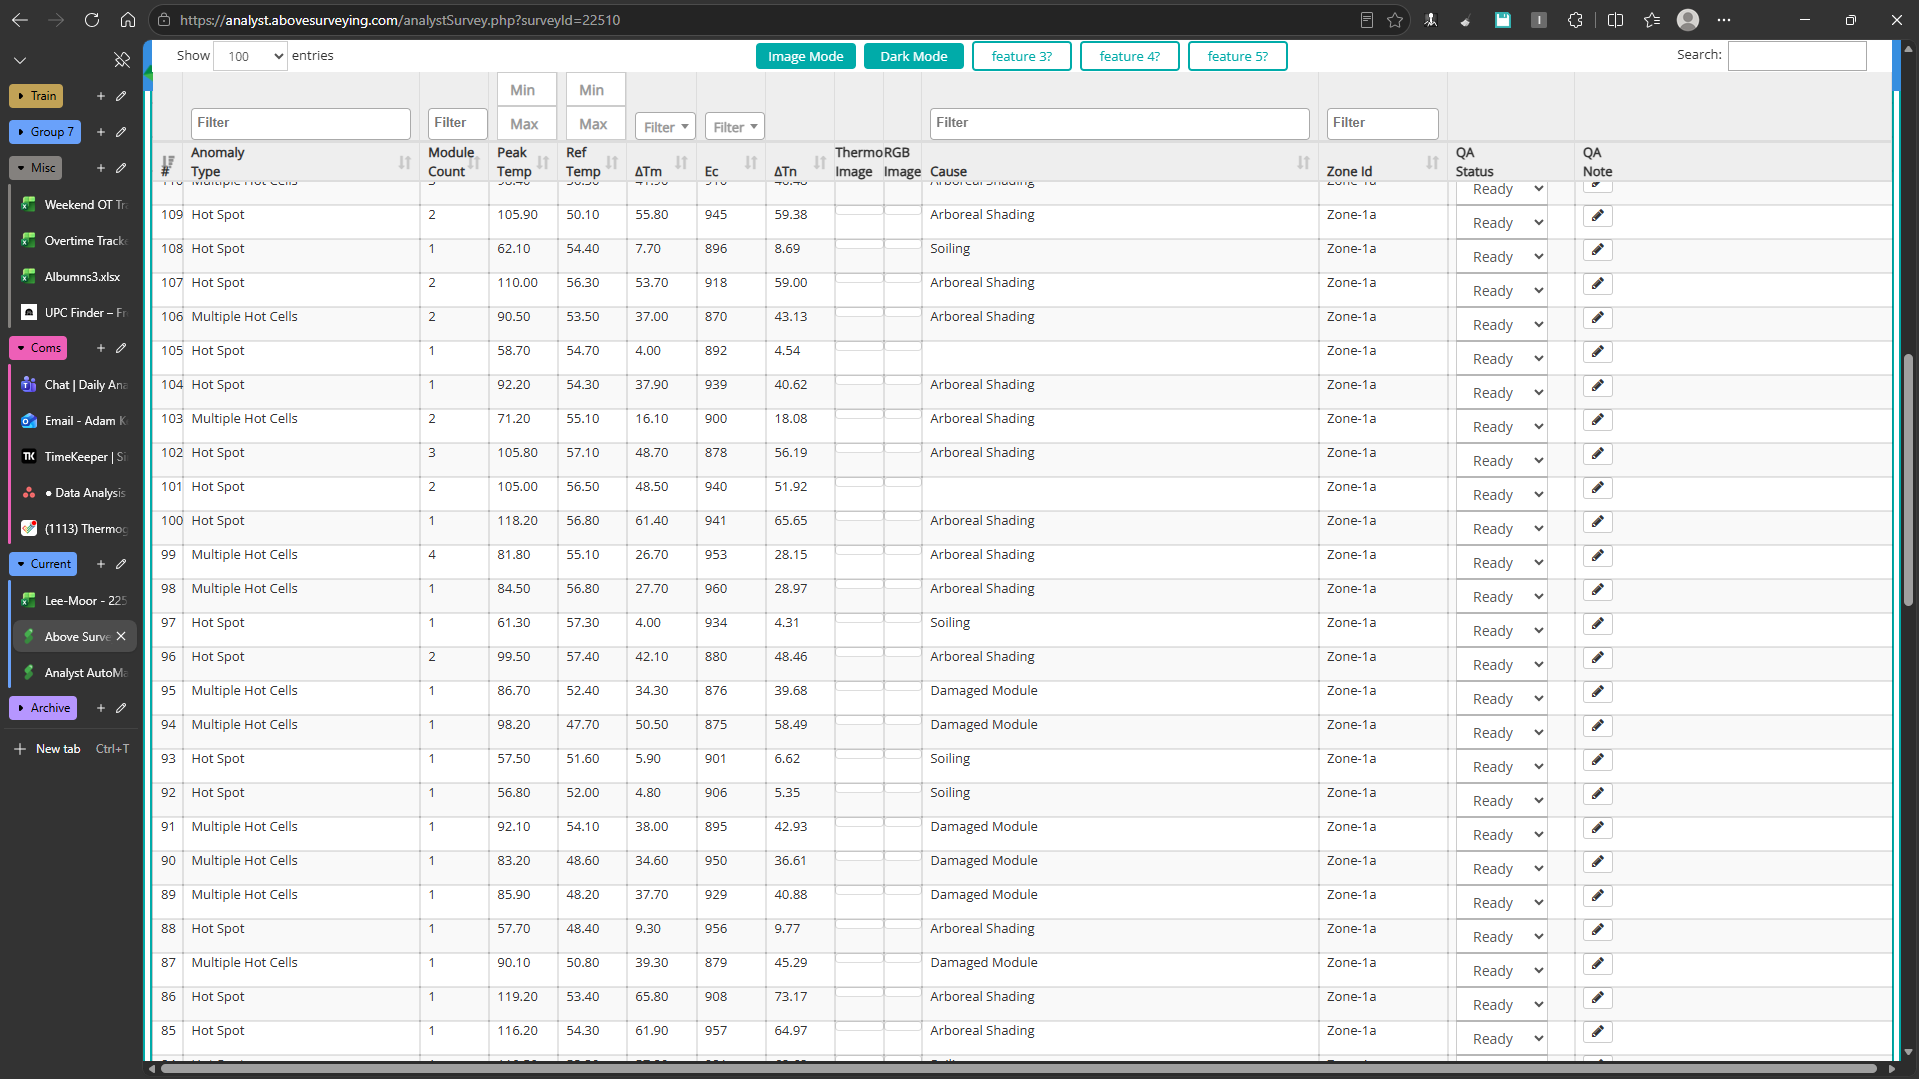
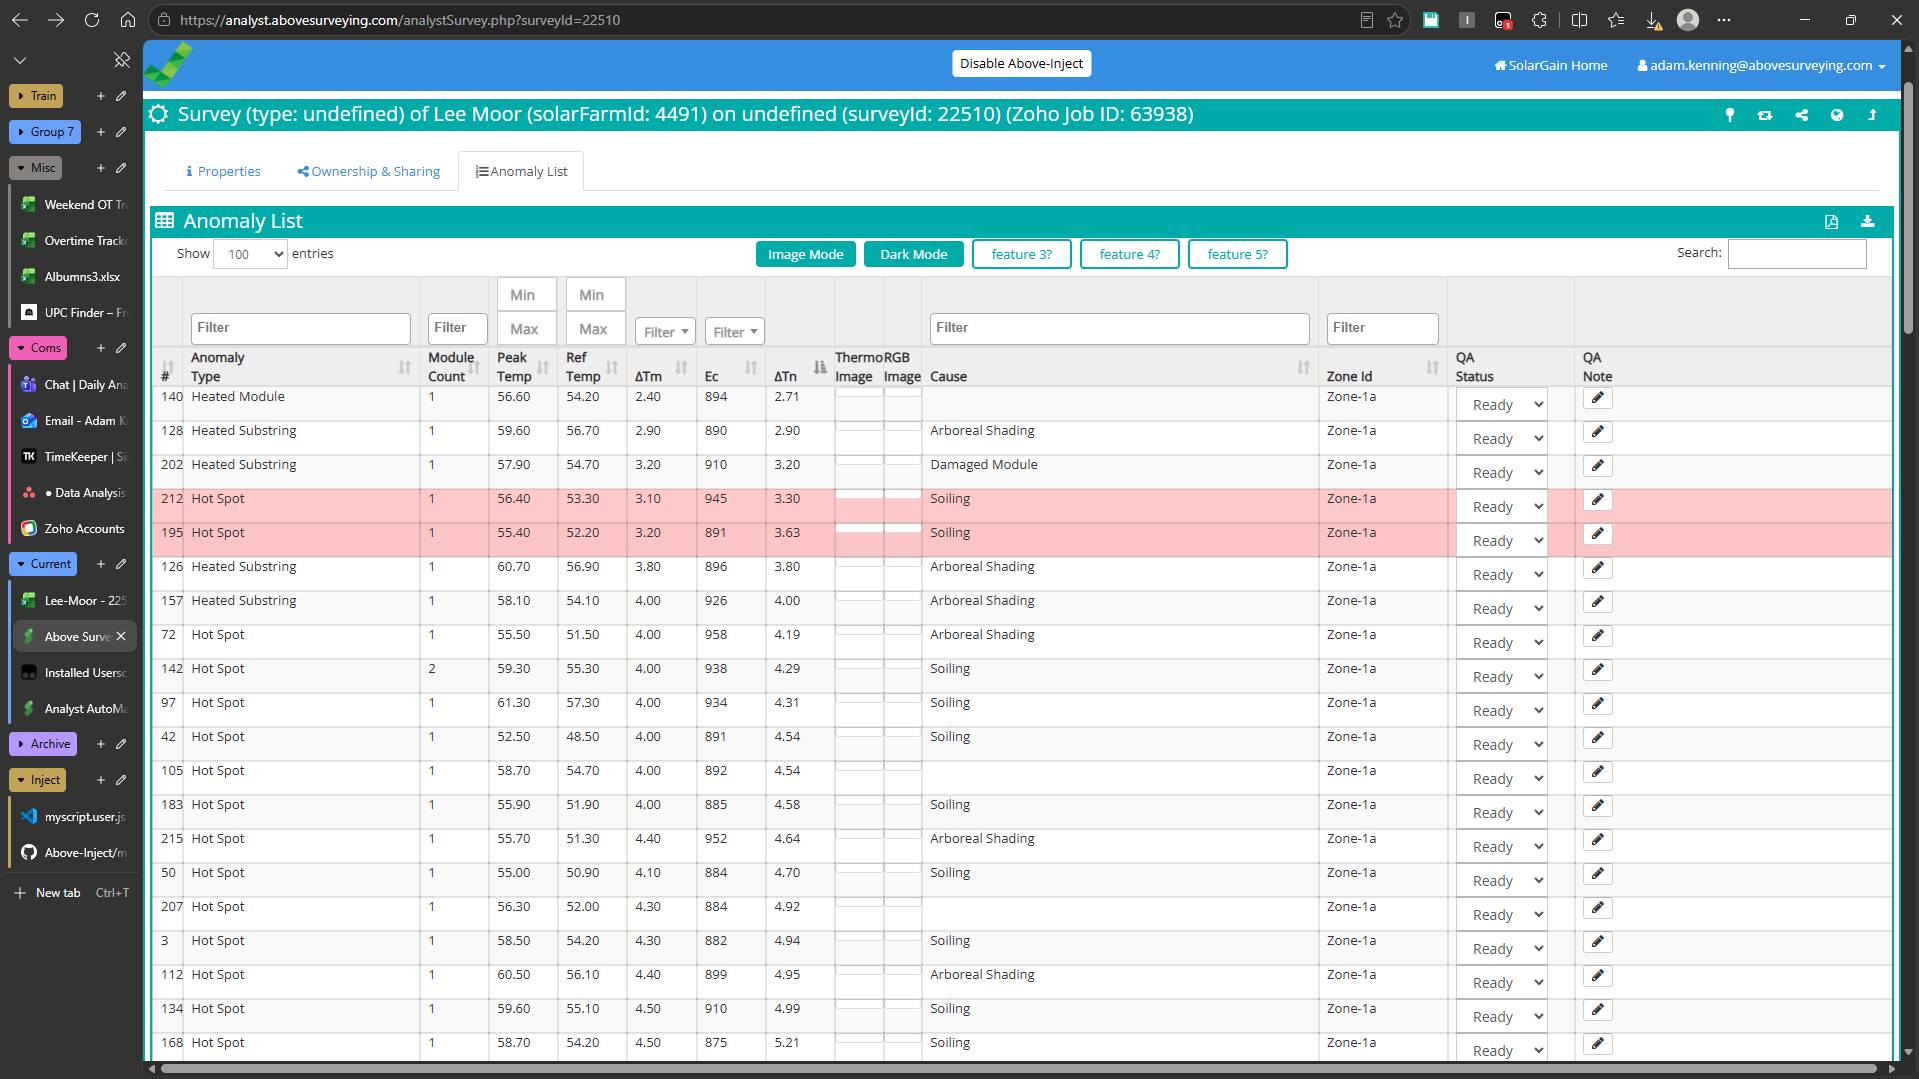
disable button pos fix. readme img update

Changed region(s): [[0.0, 0.0, 1.0, 0.9787]]

diff --git a/main/myscript.user.js b/main/myscript.user.js
@@ -1,7 +1,7 @@
 // ==UserScript==
 // @name AboveInject
 // @namespace https://github.com/AdamKenning
-// @version 2.3.0
+// @version 2.3.1
 // @match https://analyst.abovesurveying.com/analystSurvey.php?*
 // @downloadURL https://raw.githubusercontent.com/AdamKenning/Above-Inject/main/main/myscript.user.js
 // @updateURL https://raw.githubusercontent.com/AdamKenning/Above-Inject/main/main/myscript.user.js
@@ -22,8 +22,8 @@ toggleBtn.style.cssText = `
     min-width:100px;
 
     position: fixed;
-    top: 10px;
-    left: 50%;
+    top: 2px;
+    left: 25%;
     transform: translateX(-50%);
     z-index: 999999;
 `;
